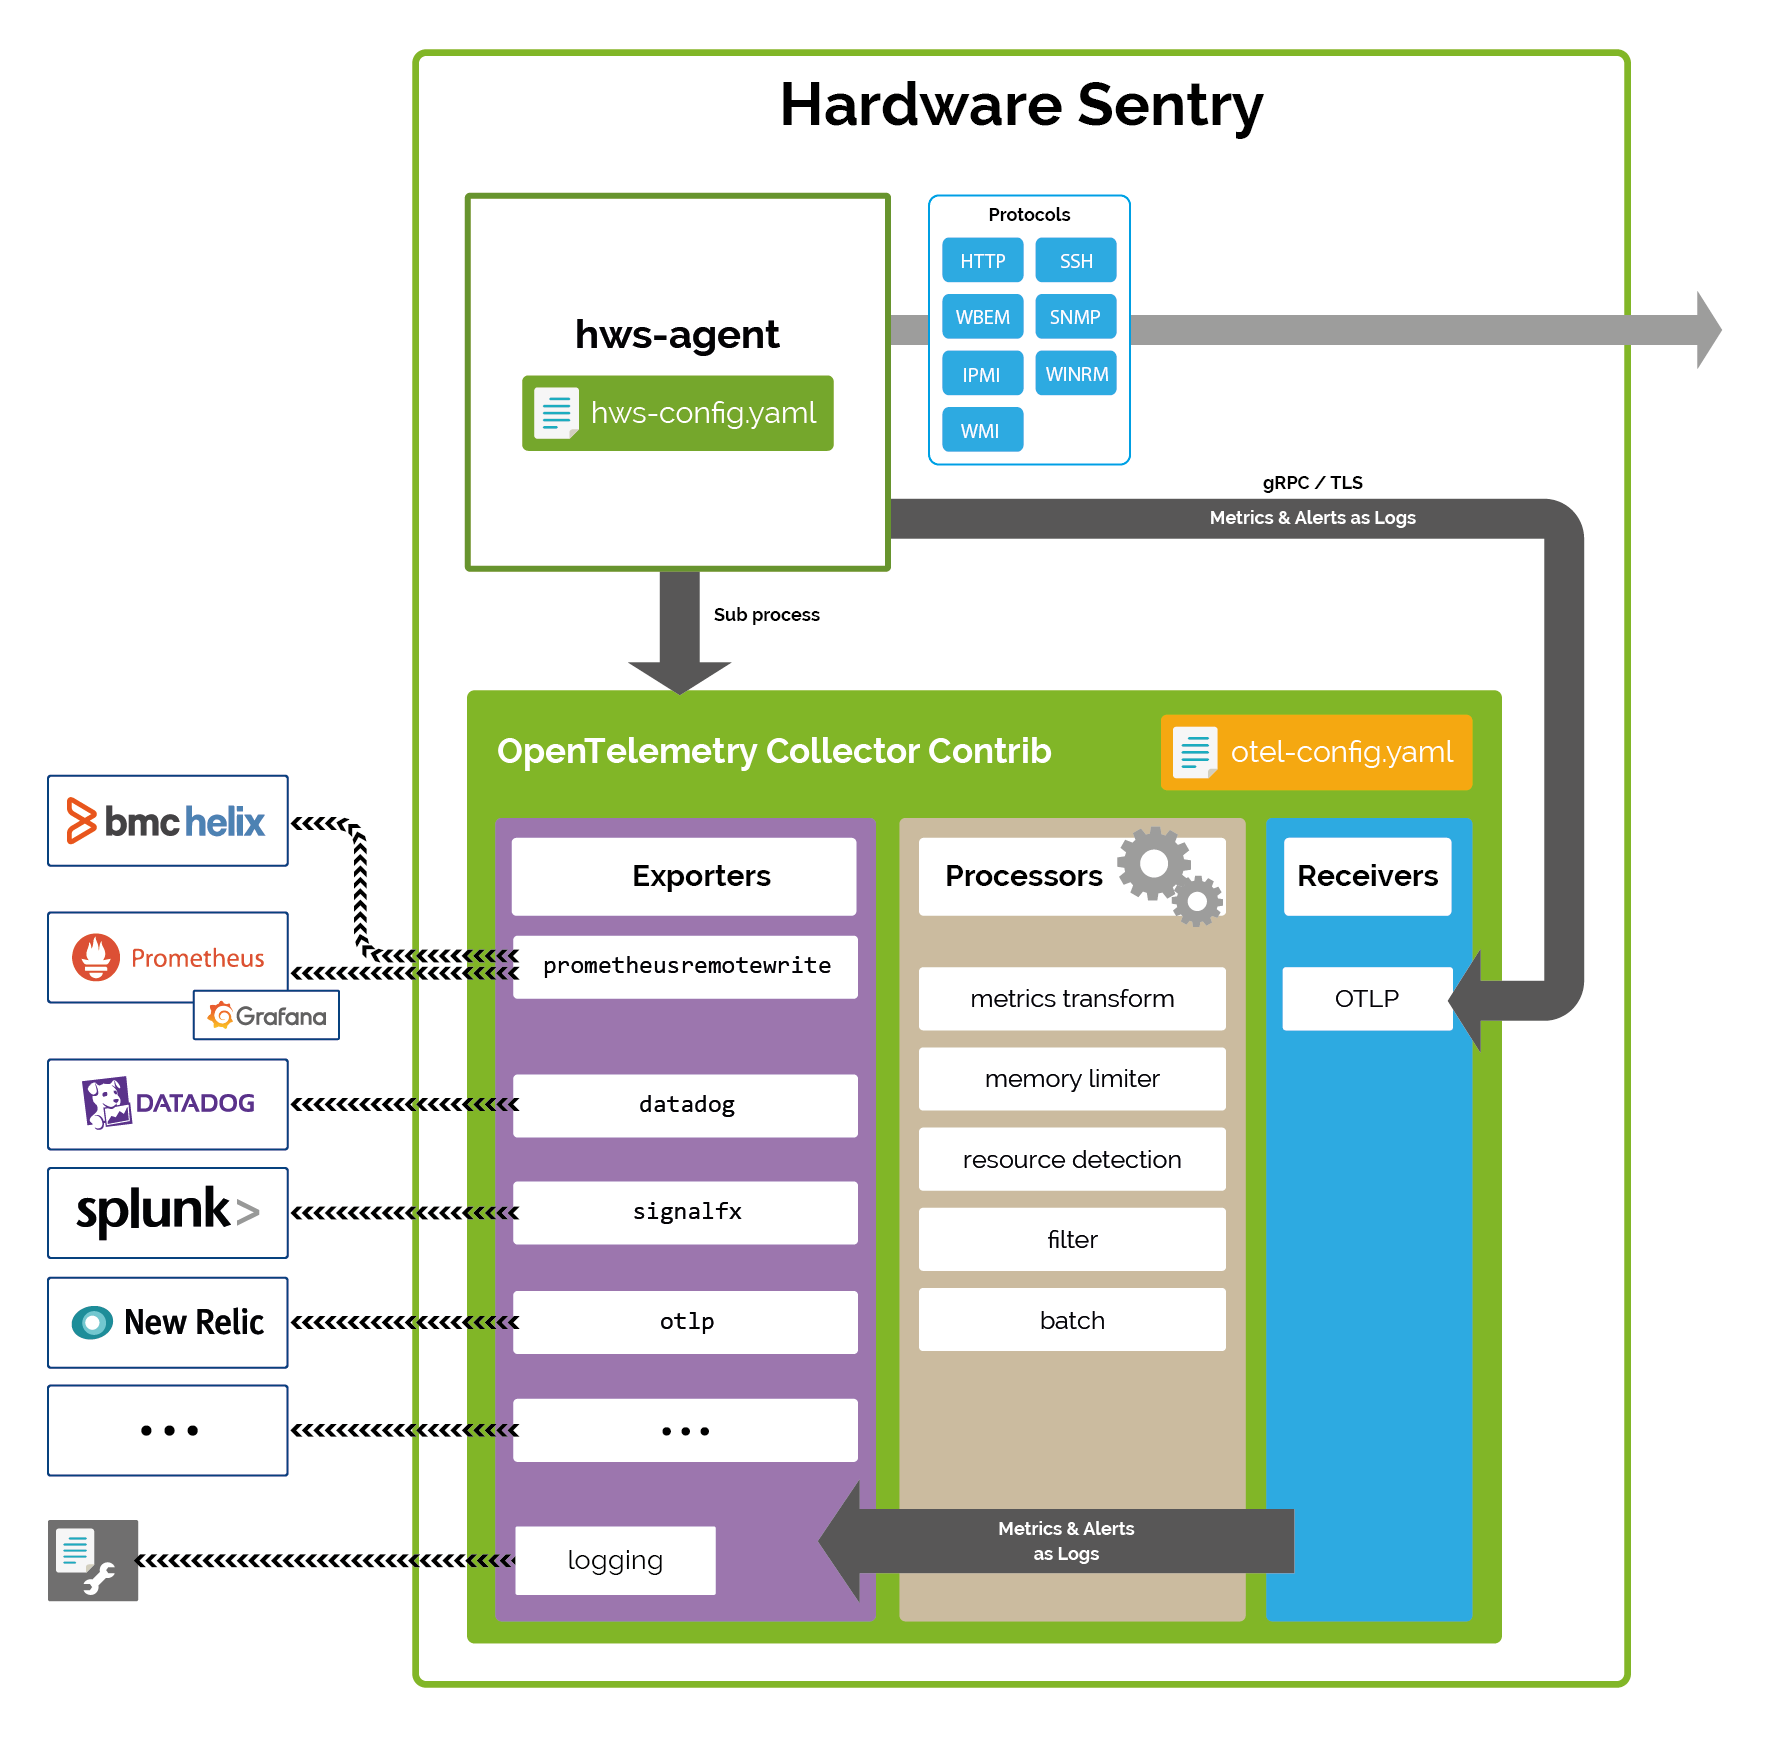
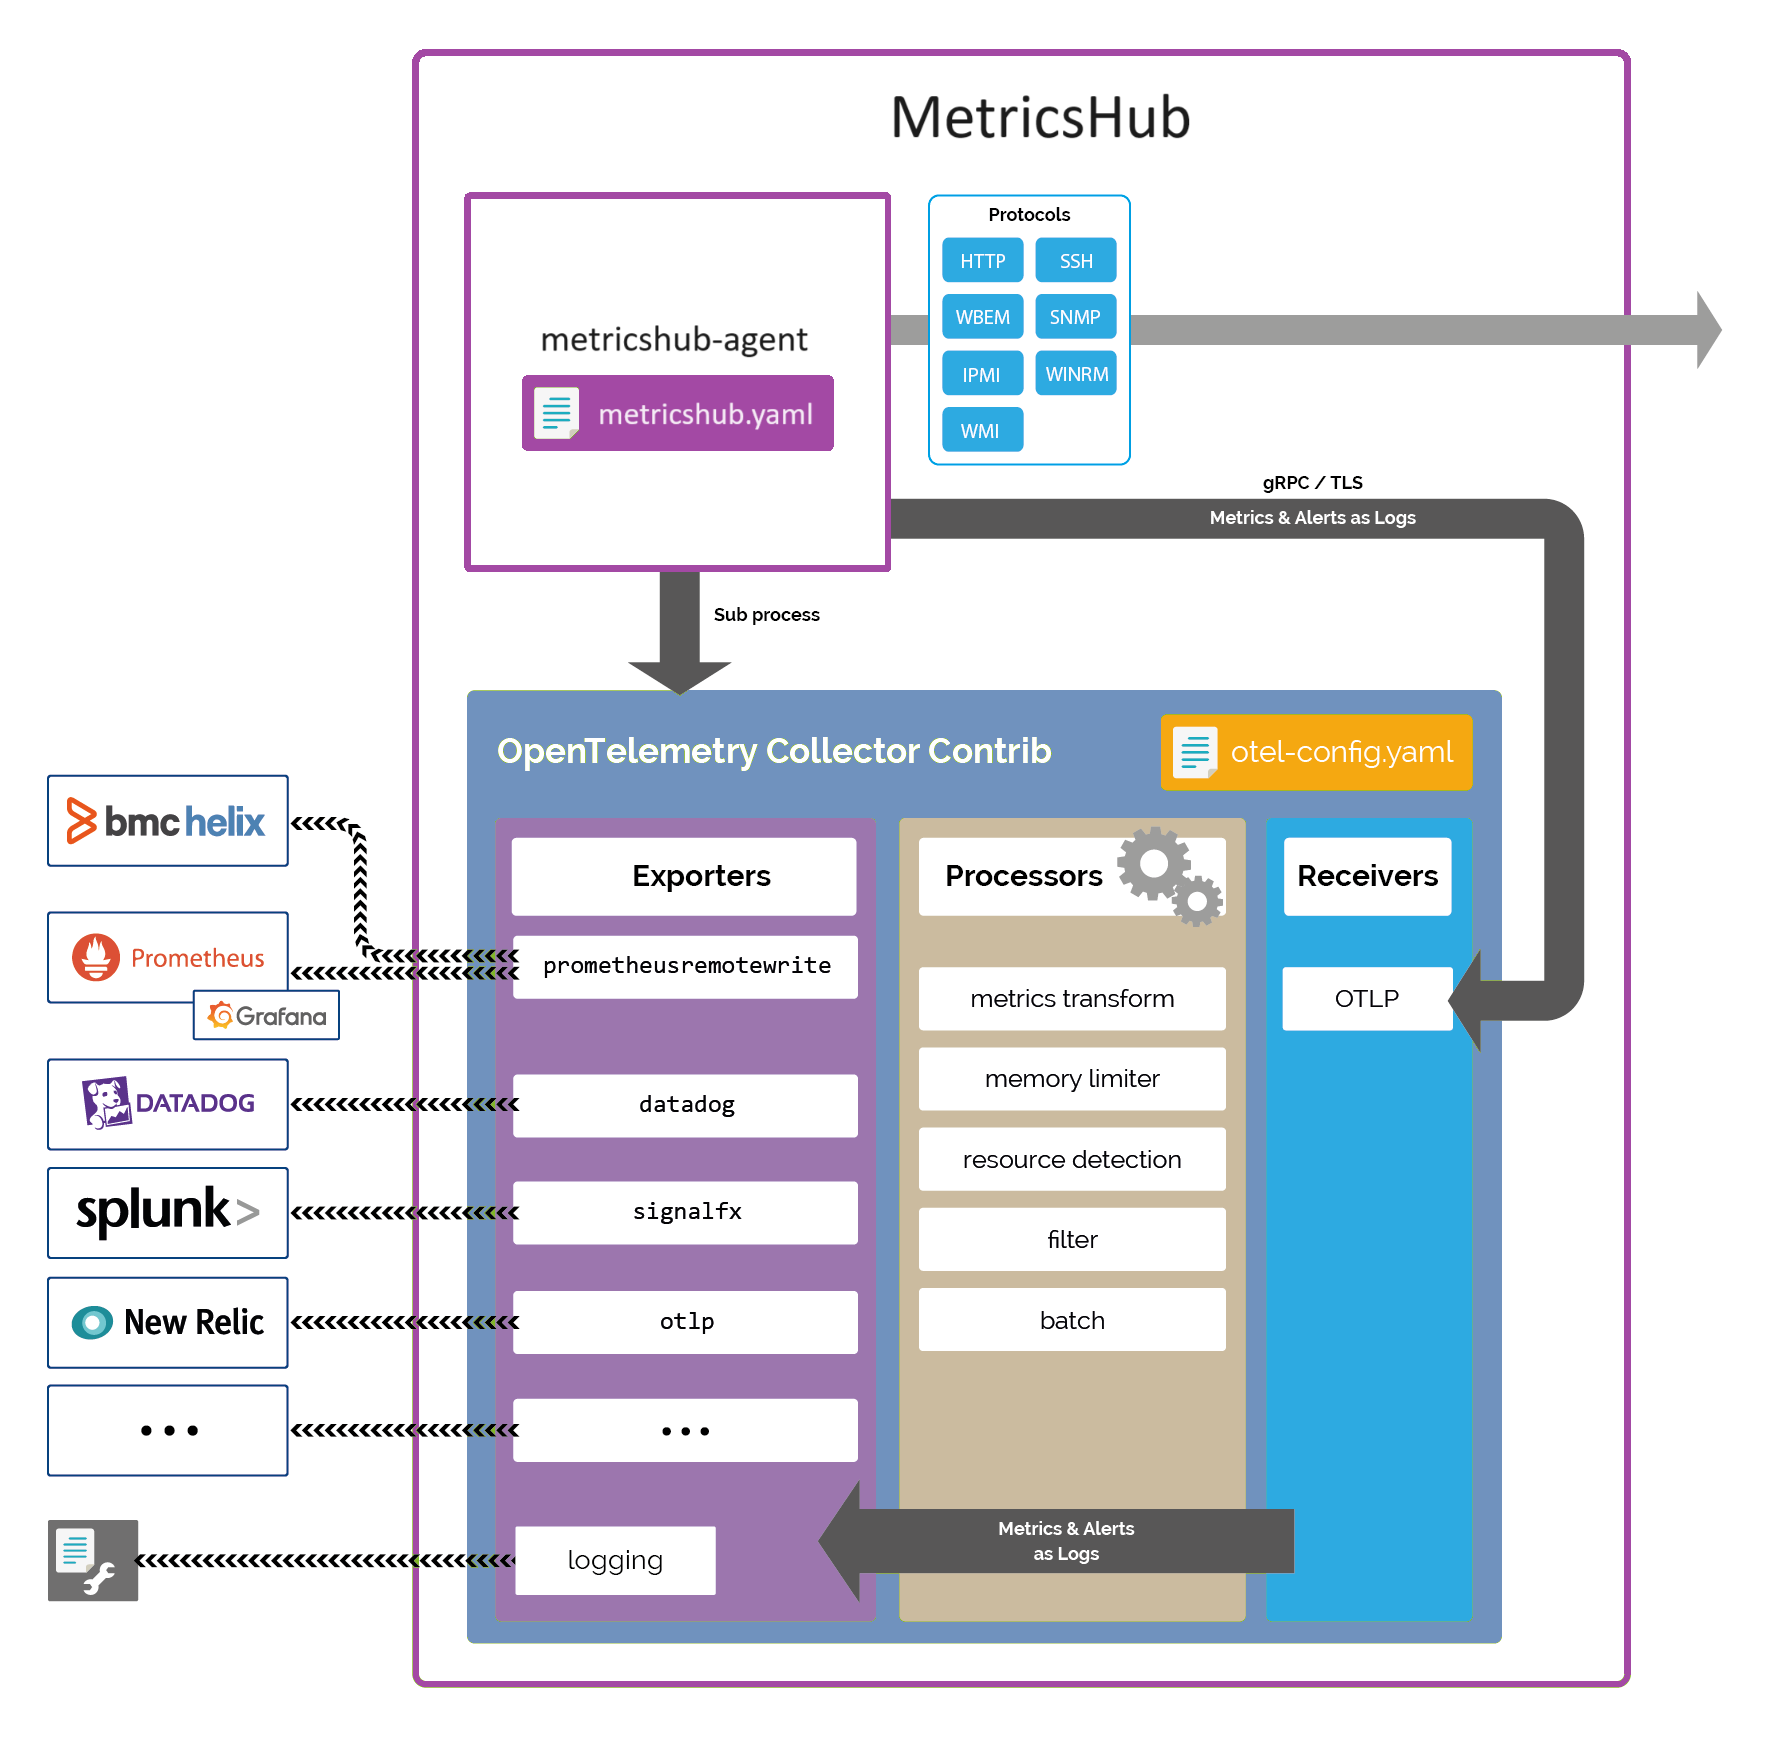
MTX-484
Document Overview

Changed region(s): [[0.2174, 0.0311, 0.9006, 0.9948], [0.9006, 0.2176, 0.9317, 0.9637], [0.9006, 0.0311, 0.9317, 0.1865]]

diff --git a/metricshub-doc/src/site/markdown/index.md b/metricshub-doc/src/site/markdown/index.md
@@ -16,65 +16,69 @@ The agent exposes tailored metrics to any observability platform supporting [Ope
 
 **${solutionName}** is available in 2 editions:
 
-* **Enterprise edition**: Thanks to its internal library of 250+ *Hardware Connectors*, **${solutionName}** can monitor almost any system from any manufacturer (**Cisco**, **Dell**, **EMC**, **Fujitsu**, **Hitachi**, **HP**, **IBM**, **Lenovo**, **NetApp**, **Oracle**, etc.) through `SNMP`, `IPMI`, `HTTP`, `WBEM`, `WMI`, `WINRM` or `SSH`.
+* **Community edition**: it includes fundamental features of the solution and connectors developed or contributed by the community members.
+The MetricsHub foundation enables the monitoring of both Windows and Linux systems and collecting metrics exposed by MIB2 and LibreHardwareMonitor.
+Additionally, the MetricsHub empowers users to create directives specifying how to monitor any network, application, service, .etc entity with minimal configuration, involving low-code principles.
+
+* **Enterprise edition**: In addition to the features included in the community edition, the enterprise edition includes the library of 250+ *Hardware Connectors*, **${solutionName}** becomes capable of performing the monitoring of almost any system from any manufacturer (**Cisco**, **Dell**, **EMC**, **Fujitsu**, **Hitachi**, **HP**, **IBM**, **Lenovo**, **NetApp**, **Oracle**, etc.) through `SNMP`, `IPMI`, `HTTP`, `WBEM`, `WMI`, `WINRM` or `SSH`.
 
 
-    *${solutionName}* monitors the health of the internal electronic components of the system:
+  *${solutionName}* monitors the health of the internal electronic components of the system:
 
-      * Batteries
-      * Blades
-      * CPUs
-      * GPUs
-      * LEDs
-      * Memory modules
-      * Network cards
-      * Power supplies
-      * Robotics
-      * Sensors
-          * Temperatures
-          * Voltages
-          * Fans
-          * Power
-      * Storage
-          * Controllers
-          * Disks
-          * RAIDs
-          * HBAs
-          * LUNs
-          * Tape drives
-      * Virtual Machines
-      * etc.
+  * Batteries
+  * Blades
+  * CPUs
+  * GPUs
+  * LEDs
+  * Memory modules
+  * Network cards
+  * Power supplies
+  * Robotics
+  * Sensors
+      * Temperatures
+      * Voltages
+      * Fans
+      * Power
+  * Storage
+      * Controllers
+      * Disks
+      * RAIDs
+      * HBAs
+      * LUNs
+      * Tape drives
+  * Virtual Machines
+  * etc.
 
-    *${solutionName}* also reports the energy usage and costs, as well as the carbon emissions of the monitored systems.
-
-* **Community edition**: It offers only basic and community connectors
+  *${solutionName}* also reports the energy usage and costs, as well as the carbon emissions of the monitored systems.
 
 ## What's in the box?
 
 **${solutionName}** is comprised of:
 
 * The **MetricsHub Agent**
-    * Its [configuration file](configuration/configure-agent.md) (`metricshub-config.yaml`)
-    * The monitoring engine, with the **Hardware Connector Library**
+    * Its [configuration file](configuration/configure-agent.md) (`metricshub.yaml`)
+    * The monitoring engine, with the basic connectors: Windows, Linux, MIB2, Libre Hardware Monitor 
 * The *OpenTelemetry Collector Contrib* executable
     * The *OpenTelemetry* [configuration file](configuration/configure-otel.md) (`otel-config.yaml`)
 * MetricsHub CLI (`metricshub`)
 
+> Note: The **Enterprise Edition** consists of Hardware connectors
+
 ![Internal architecture of the ${solutionName}](images/metricshub-internal-architecture.png)
 
-> Note: **${solutionName}** is shipped with Java Runtime Environment 11.
+> Note: **${solutionName}** is shipped with Java Runtime Environment 17.
 
 ### MetricsHub Agent
 
 The **MetricsHub Agent** is the engine that performs the actual monitoring of the systems, based on its [configuration file](configuration/configure-agent.md), which specifies:
 
 * Its internal polling cycle
-* The hostnames and credentials of the systems to monitor.
+* The hostnames and credentials of the resources to monitor.
 
 The **MetricsHub Agent** is responsible for:
 
 1. Spawning the **OpenTelemetry Collector Contrib**
-2. Scraping hosts
+2. Scraping resources
 3. Collecting metrics
 4. Pushing OTLP data to the OTLP receiver of the OpenTelemetry Collector.
 
@@ -85,15 +89,14 @@ The *OpenTelemetry Collector Contrib* is responsible for:
 1. Pulling its metrics periodically (internally)
 2. Pushing these metrics to the specified platform.
 
-### Hardware Connector Library
+### Hardware Connector Library (Enterprise edition)
 
-In the enterprise edition, the library of **250+** *Hardware Connectors* is included in the **MetricsHub Agent**. It is the same library that powers [Hardware Sentry KM for PATROL](https://www.sentrysoftware.com/products/km-hardware-sentry.html), the original and battle-seasoned module for PATROL, created in 2004 by Sentry Software and used on hundreds of thousands of systems around the world.
-The community edition offers just basic and community connectors
+In the enterprise edition, the library of **250+** *Hardware Connectors* is provided as zip asset to be included in the **${solutionName}** installation. It is the same library that powers [Hardware Sentry KM for PATROL](https://www.sentrysoftware.com/products/km-hardware-sentry.html), the original and battle-seasoned module for PATROL, created in 2004 by Sentry Software and used on hundreds of thousands of systems around the world.
 
 The platforms that can be monitored by **${solutionName}** entirely depends on this library. More details about the *Hardware Connector Library* are available as a [separate documentation](https://www.sentrysoftware.com/docs/hardware-connectors/latest/index.html).
 
 ### MetricsHub CLI (`metricshub`)
 
-The [MetricsHub CLI](troubleshooting/cli.md) contains the same engine and library of *Hardware Connectors* as *MetricsHub Agent*, but packaged as a command line interface, that can be invoked in a shell.
+The [MetricsHub CLI](troubleshooting/cli.md) contains the same engine and library as *MetricsHub Agent*, but packaged as a command line interface, that can be invoked in a shell.
 
 This tool is particularly useful to troubleshoot the monitoring of a system, protocols and credentials.
